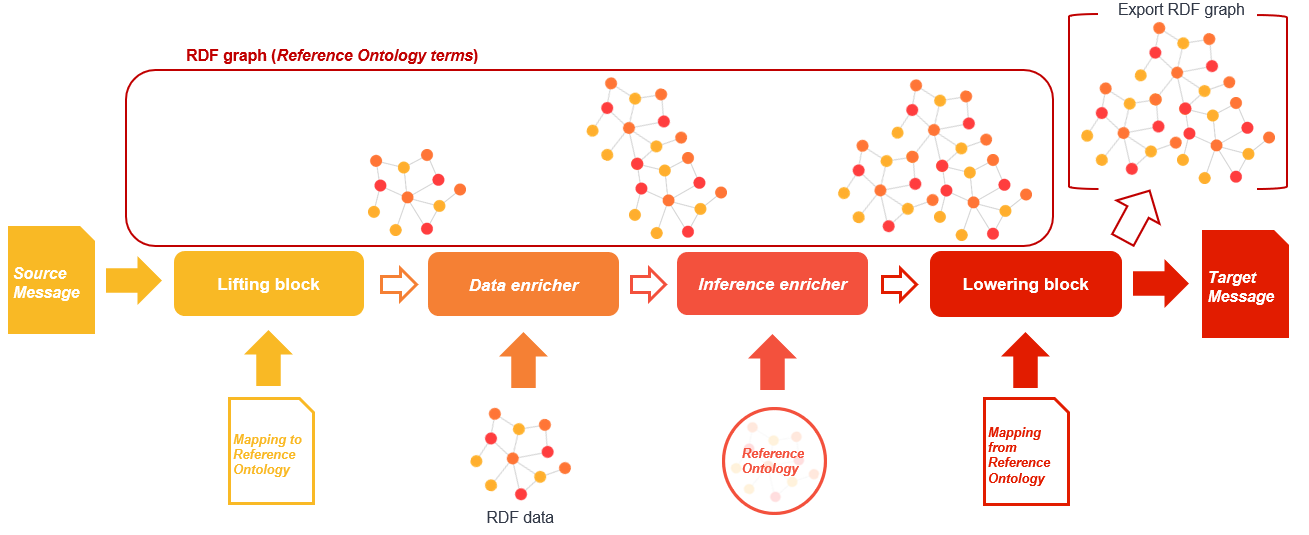
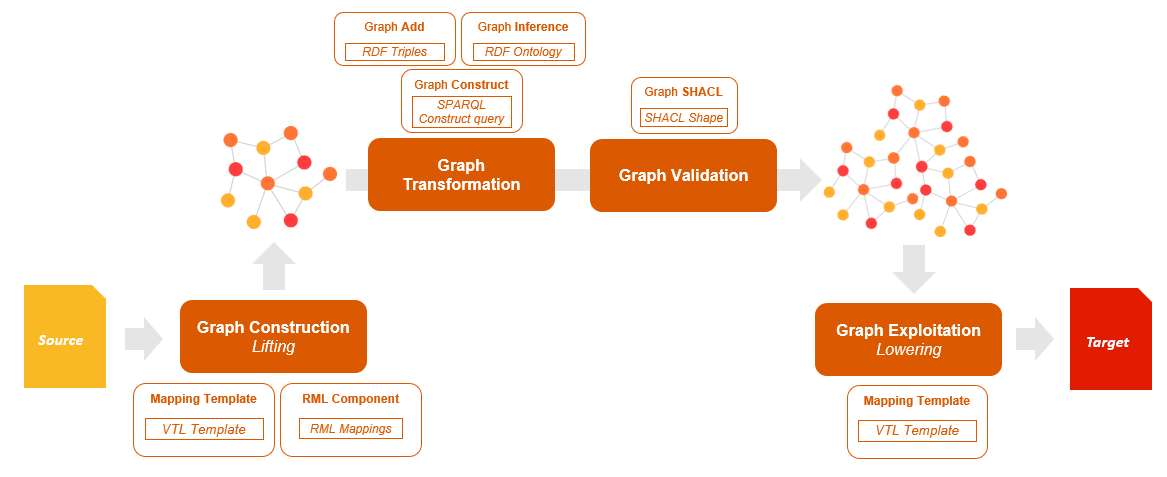
updated readme

diff --git a/README.md b/README.md
@@ -24,23 +24,22 @@ The RDF graph can be interpreted as a variable which is shared among all the blo
 With this high-level process in mind, we defined a core set of blocks:
 
 * _Lifting_: this block takes a structured message as input, and enriches the RDF graph with the triples obtained by applying a "mapping" to the input.
-* _Data enricher_: this block loads a set of RDF files, or generates a set of triples (e.g. CONSTRUCT queries) and loads them into the RDF graph.
-* _Inference enricher_: this block loads a set of ontology files into the RDF graph, inference rules can generate additional triples enriching the graph.
+* _Graph Transformations_: this block loads a set of RDF files, or generates a set of triples (e.g. CONSTRUCT queries or ontology enabled inferences) and loads them into the RDF graph.
+* _Graph Validation_: this block loads a set of ontology files into the RDF graph, inference rules can generate additional triples enriching the graph.
 * _Lowering_: this block applies a “mapping” to data extracted from the RDF graph, and produces a structured message as output.
 
 <p align="left"><img src="pipeline.png" alt="Generic pipeline" width="800"></p>
 
-Chimera contains a default implementation for the mentioned blocks, plus additional _utilities_ blocks to configure a semantic conversion pipeline. Each module is decoupled from the others providing high flexibility in configuring pipelines for different requirements.
-
 ### Project structure
 The project has a parent POM (in the parent directory) that can be used to trigger the Maven builds of sub-projects respecting internal dependencies. You can modify the parent POM to select only sub-projects you are interested in.
-The main sub-project is `chimera-core` that contains the basic blocks of the Chimera framework. The [rdf4j](https://rdf4j.org/) library is used to handle the RDF graph in all the pipeline blocks. Additional blocks can be found in the other sub-projects:
+Chimera makes use of three components, available as sub-projects in this repository. 
+The [rdf4j](https://rdf4j.org/) library is used to handle the RDF graph in all the pipeline components.
 
-- `chimera-rml` contains the blocks to implement lifting using the [rml-mapper](https://github.com/cefriel/rmlmapper-cefriel) library 
+- `graph-component` Camel component used to create and manipulate RDF knowledge graphs.
+- `rml-component` Camel component used to lifting using the [rml-mapper](https://github.com/cefriel/rmlmapper-cefriel) library 
     - This sub-project depends on the mentioned library that is imported as a git submodule in `libs/rmlmapper-cefriel`
-- `chimera-rdf-lowerer` contains the blocks to implement lowering using the [rdf-lowerer](https://github.com/cefriel/rdf-lowerer) library 
+- `rdft-component` Camel componend able to implement both lifting and lowering steps using the [rdf-template](https://github.com/cefriel/rdf-template) library 
     - This sub-project depends on the mentioned library that is imported as a git submodule in `libs/rdf-lowerer`
-- `chimera-records` contains a set of utility blocks to gather data (timestamps, RDF graph data,...)  within a Chimera pipeline
 
 ### How to compile the project
 - Clone the repository and the required git submodules
